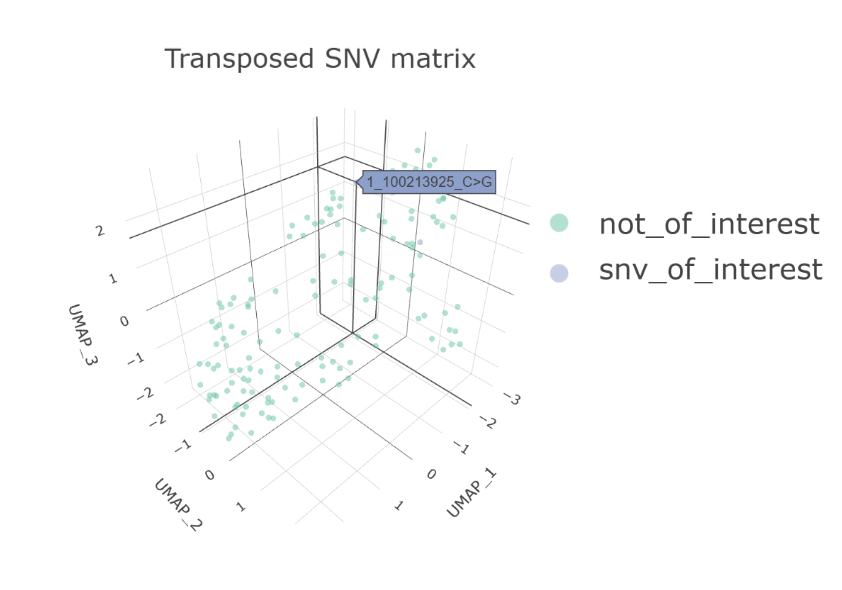
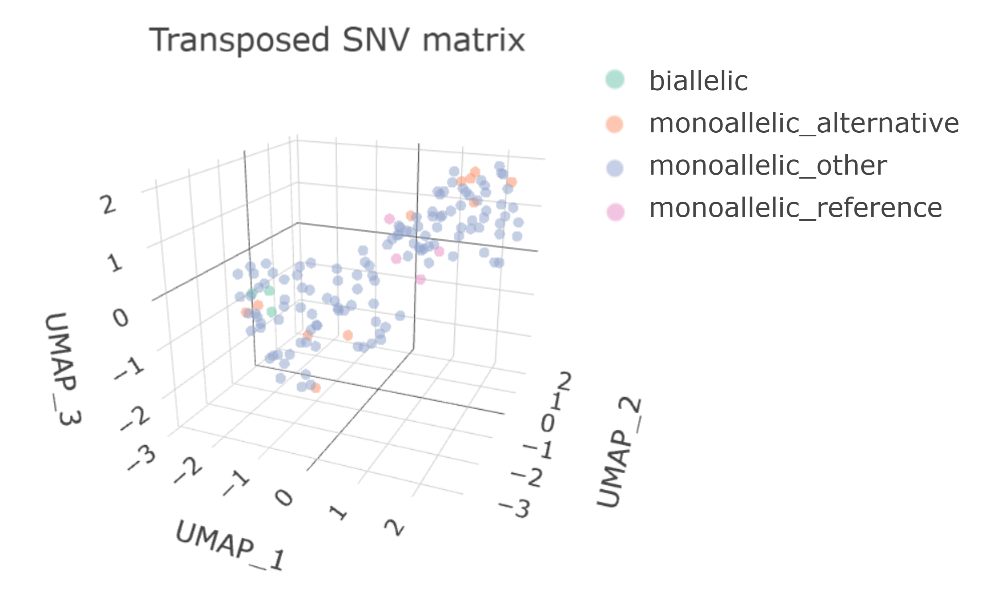
update transposed plot graphic for readme and readme

diff --git a/README.md b/README.md
@@ -177,14 +177,6 @@ generate_report(plot_object=plots,
 In order to generate a transposed SNV plot, you must have a minimum of 100 unique SNVs in your SNV file. To run the tutorial with sample data, please re-run the above workflow for an individual sample, but using the 'input/sample1_SNVs_large.tsv' file. Once you have generated the processed_data variable, proceed as follows.
 
 ```
-snvs_of_interest = c('1:100213925:C:G', '1:151982919:G:C')
-processed_data$ProcessedSNV['SNV'] <- paste0(processed_data$ProcessedSNV$CHROM, ':', processed_data$ProcessedSNV$POS, ':',
-                                processed_data$ProcessedSNV$REF, ':', processed_data$ProcessedSNV$ALT)
-processed_data$ProcessedSNV['snv_label'] <- 'not_of_interest'
-df = processed_data$ProcessedSNV
-df[df$SNV %in% snvs_of_interest, 'snv_label'] = 'snv_of_interest'
-processed_data$ProcessedSNV = df
-
 plots <- plot_snv_data(seurat_object=processed_data$SeuratObject,
                        processed_data$ProcessedSNV,
                        processed_data$AggregatedSNV,
